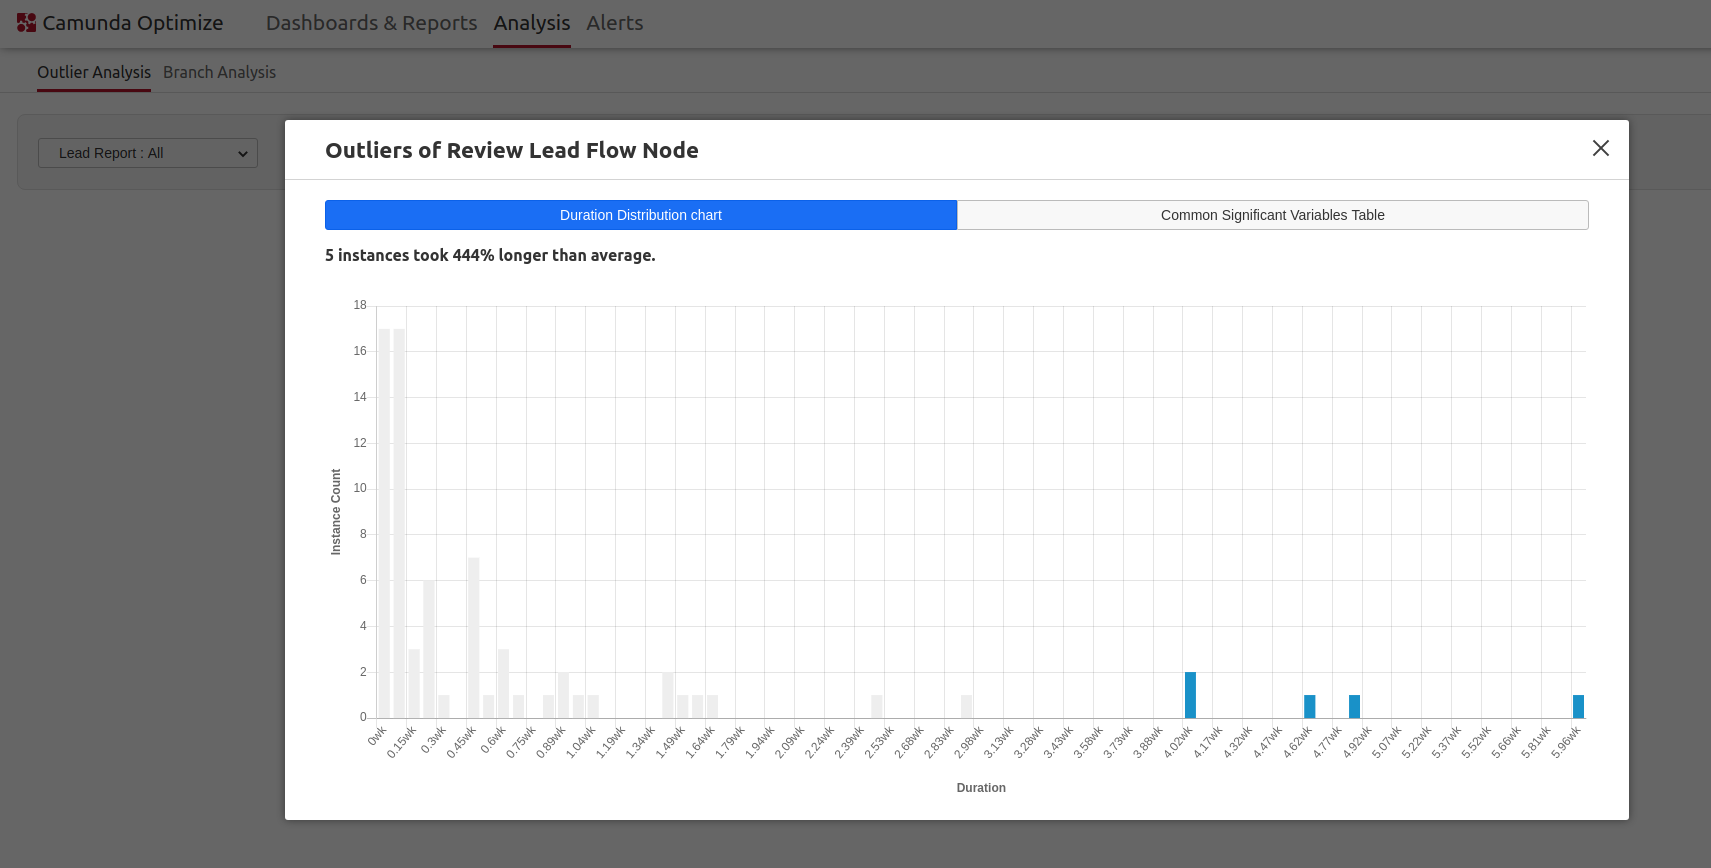
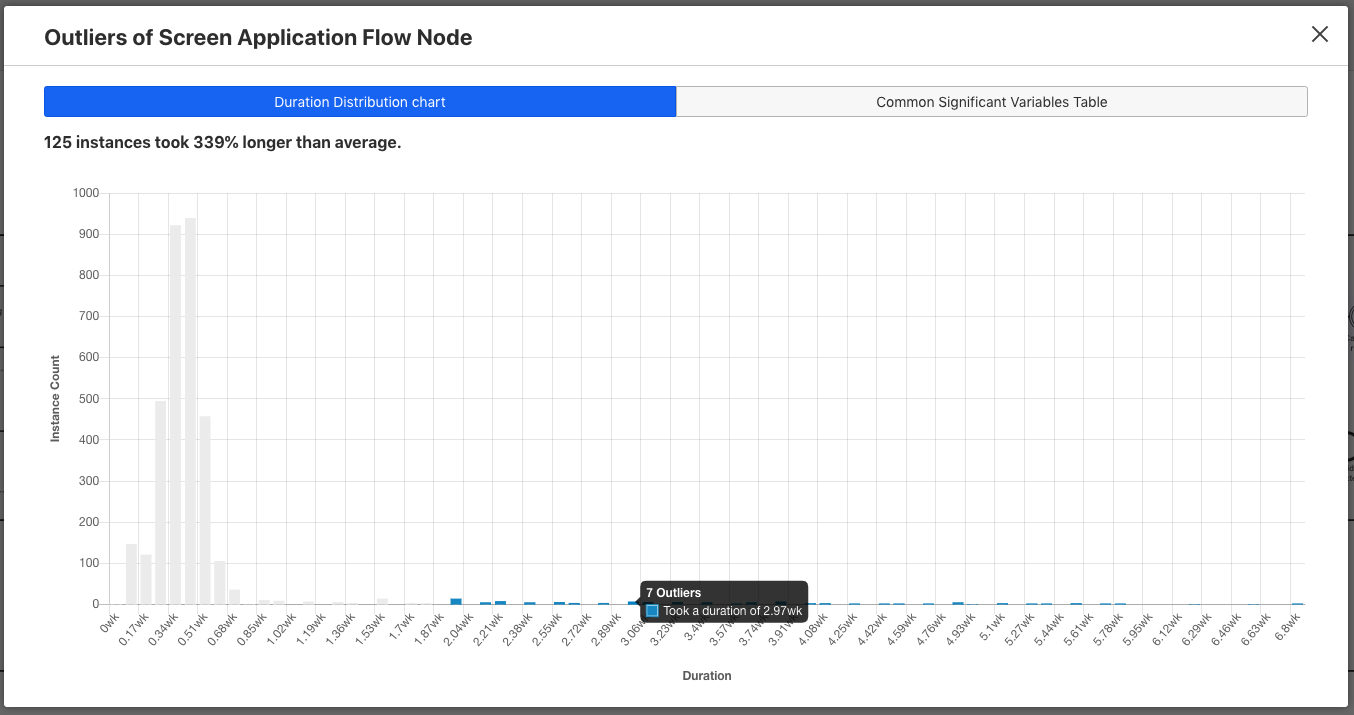
blog(release): add screenshots

diff --git a/content/post/2019/10/camunda-optimize-26-released.md b/content/post/2019/10/camunda-optimize-26-released.md
@@ -30,7 +30,19 @@ You can [try out a free trial of Camunda Optimize](#how-to-get-it).
 Before Optimize 2.6 every Collection, Report or Dashboard that was created in Optimize was per default visible for all users and could be also edited by all users.
 
 With this release all newly created collections, reports and dashboards will be private per default. This means that other users will not be able to see or edit entities that have been created by other users.
-To allows other users to see or edit reports and dashboards, you can place them in a collection. Afterwards you can add users and groups to your newly created collection
+
+Due the above changed the Reports & Dashboards List page was changed in order to reflect the new concept:
+
+{{< figure src="homepage.png" alt="Optimize 2.6 Homepage" >}}
+
+To allows other users to see or edit reports and dashboards, you can place them in a collection. At the same time each collection has a separate page now:
+{{< figure src="collection-reportsdashboards.png" alt="Optimize 2.6 Reports Dashboards" >}}
+
+The new breadcrumb in the header reflects the way you navigated to your report, dashboard or collection. This allows you to easily navigate between the different pages.
+
+Afterwards creating your collection and copying or creating your reports and dashboards inside of it, you can add users and groups to your newly created collection
+
+{{< figure src="collection-users.png" alt="Optimize 2.6 Users" >}}
 
 While adding users or user groups to a collection one has to choose one of the roles for the added user or user group:
 
@@ -38,9 +50,8 @@ While adding users or user groups to a collection one has to choose one of the r
 - Editors can additionally edit all reports and dashboards within the collection, but not the collection itself.
 - Managers can edit all reports and dashboards and also manage the collection.
 
-Due the above changed the Reports & Dashboards List page was changed in order to reflect the new concept.
+{{< figure src="collection-userroles.png" alt="Optimize 2.6 User Roles" >}}
 
-...images
 
 # Outlier Analysis
 
@@ -50,8 +61,7 @@ Using the heatmap visualization you are also able to compare the durations with 
 With this release we add a very exciting feature which adds the possibility to easily identify process instances where certain flow node instances take significantly longer than others and subsequently slow down your process.
 We call this `Outlier Analysis`. Let's have a look into the feature based on a small example step-by-step.
 
-In below example our process consists of two User Tasks and two Send Tasks.
-When using the new Outlier Analysis feature within the Analysis section and selecting the process we can directly see that the Heatmap highlights the Flow Nodes where Optimize identified many duration outliers. In our example for the Tasks *Review Lead* and *Confirm Lead* duration outliers were identified.
+When using the new Outlier Analysis feature within the Analysis section and selecting the process we can directly see that the Heatmap highlights the Flow Nodes where Optimize identified many duration outliers. In our example for the Tasks *Assign Hiring Manager*, *Screen Application* and *Conduct 1st Onsite Interview* duration outliers were identified.
 When hovering over the task you can see how many instances were identified and how much longer they take than the average duration.
 
 {{< figure src="outlierExample_1_heatMap.png" alt="Outlier Example Heatmap" >}}
@@ -63,8 +73,9 @@ A click on *View Details* allows you to directly see a Duration Distribution Cha
 
 ## Significant Variable Values
 
-When looking at the duration outlier instances you can analyze the data further in order to do more root-causing for why these instances eventually took so long.
-A click on the significant variables tab shows you a table that lists significant variable values in the outlier instances. It also allows you to see how many times this variable value occurred in the outlier instances compared to the rest the process instances. This can give you a good idea if there is a correlation between a variable value and that a flow node takes more time than expected.
+When looking at the duration outlier instances you can analyze the data further in order to root-cause why these instances eventually took so long.
+A click on the significant variables tab shows a table that lists significant variable values in the outlier instances. It also allows you to see how many times this variable value occurred in the outlier instances compared to the rest the process instances. This can give you a good idea if there is a correlation between a variable value and that a flow node takes more time than expected.
+In our example we can see that for all of our Duration Outliers the Department was IT, the JobExperience was Senior and the assigned hiringManager was James. We could approach James to find out why it took so long to complete this task in order to speed up our Screen Application tasks.
 
 {{< figure src="outlierExample_3_Variables.png" alt="Outlier Example Variables" >}}
 
